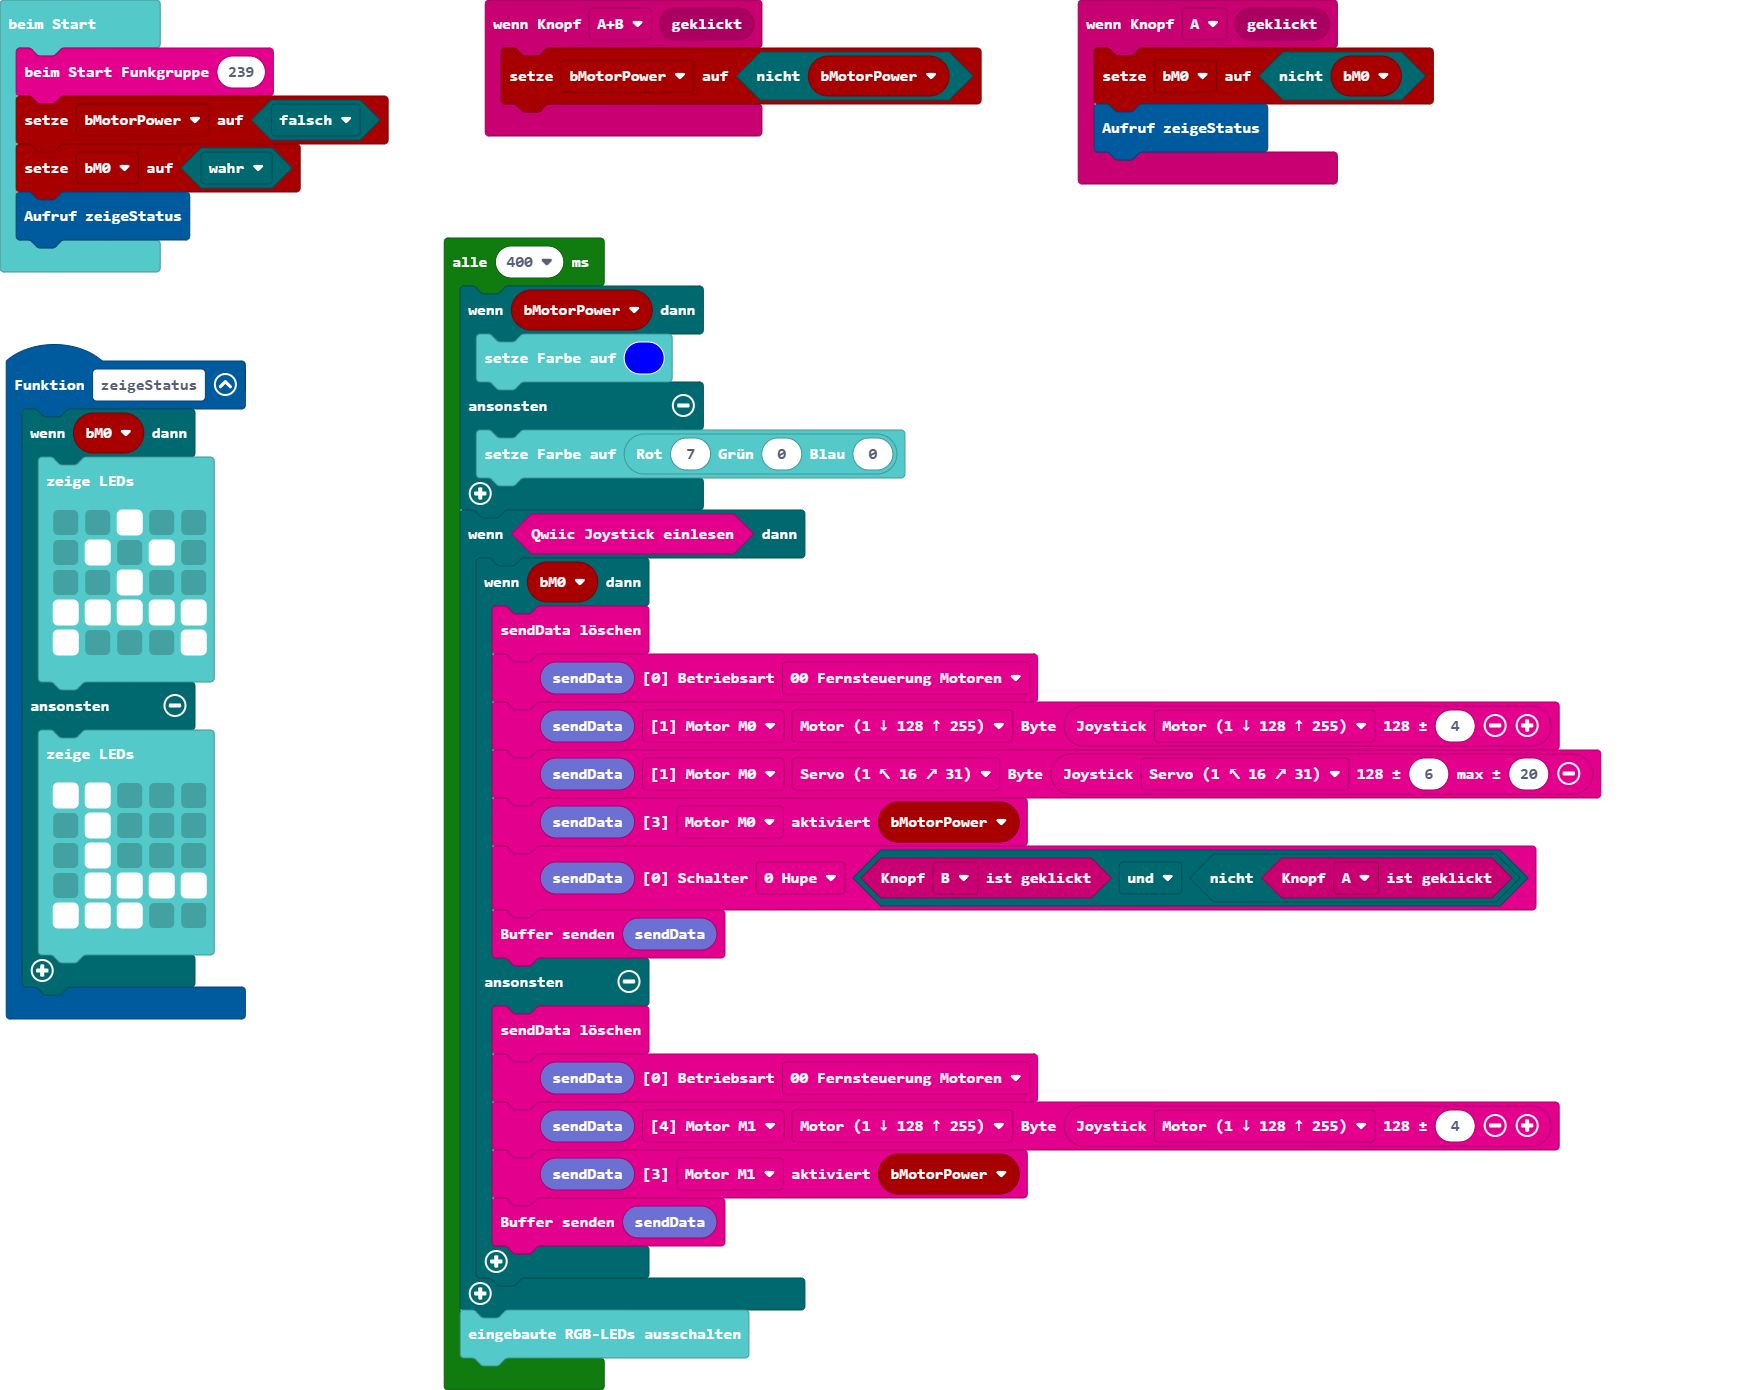
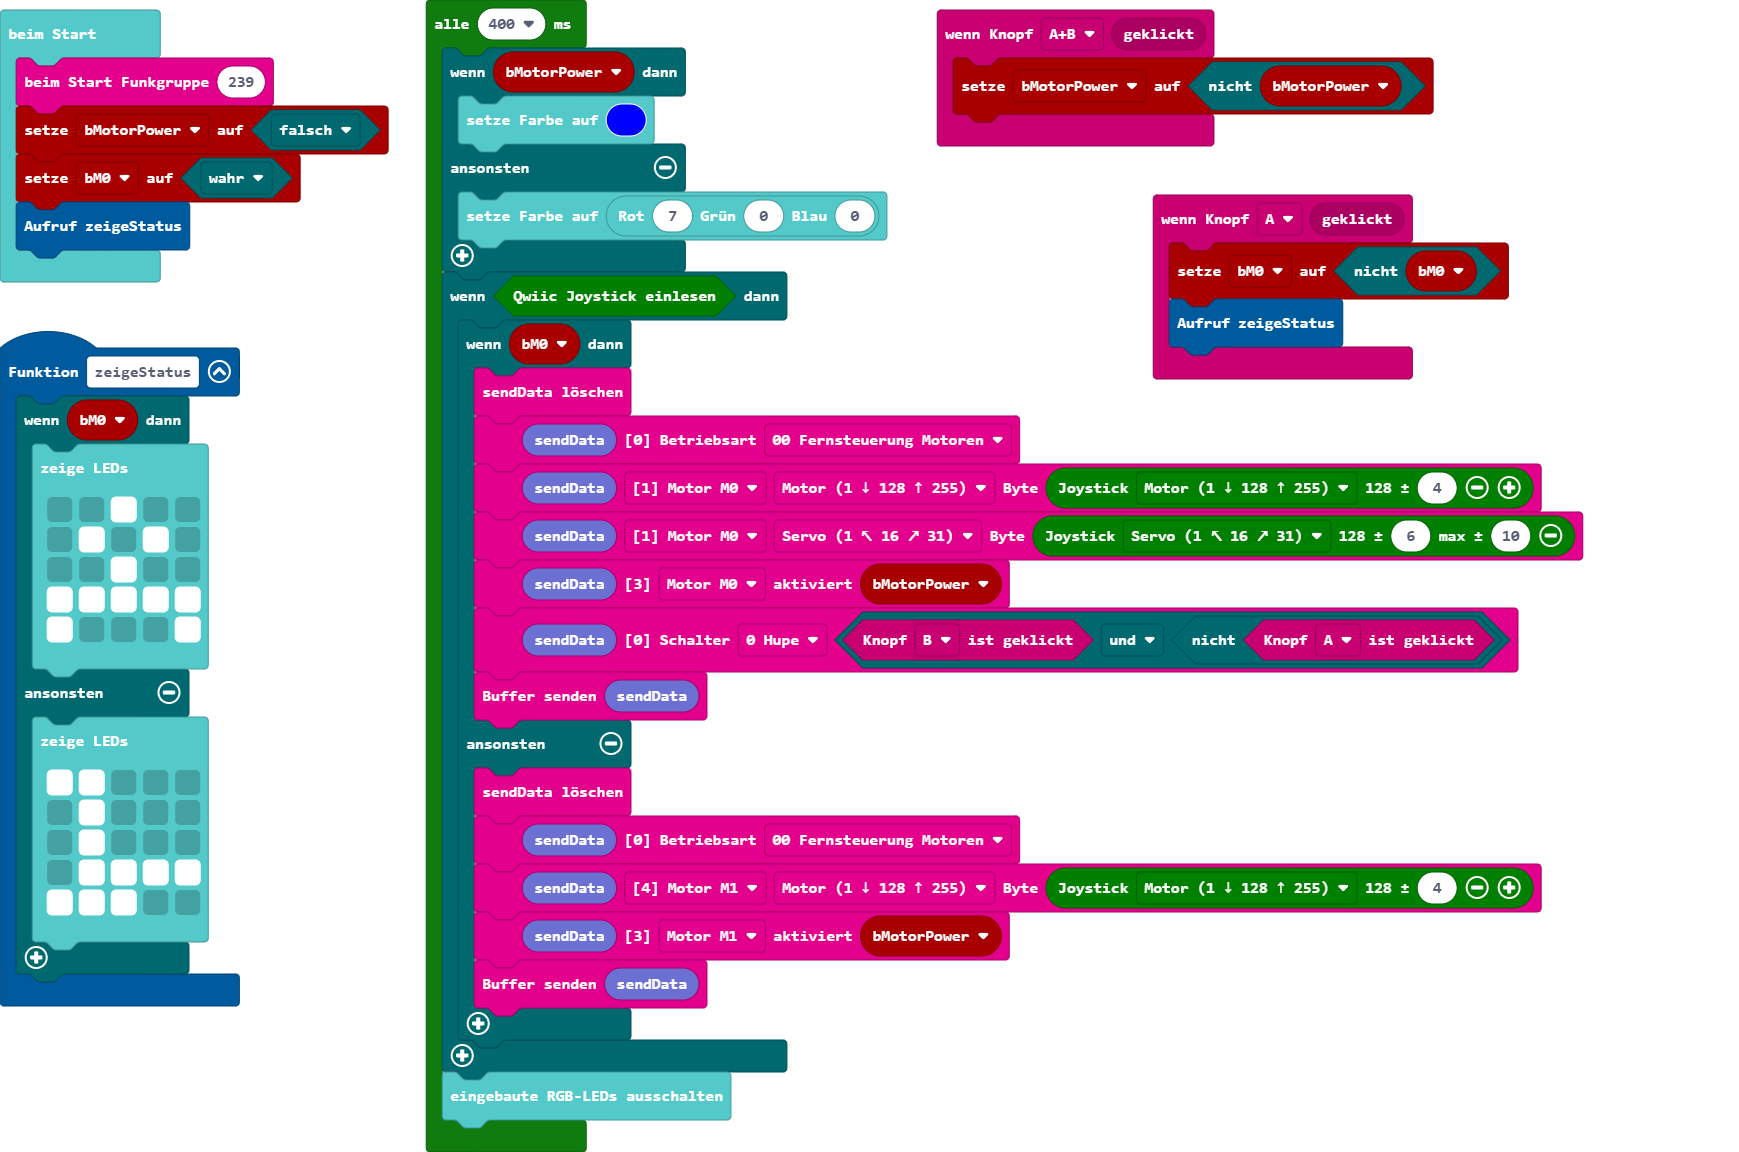
Aktualisiere pxt.json, main.blocks, main.ts

diff --git a/main.ts b/main.ts
@@ -41,7 +41,7 @@ loops.everyInterval(400, function () {
             radio.fill_sendBuffer19()
             radio.setBetriebsart(radio.radio_sendBuffer19(), radio.e0Betriebsart.p0)
             radio.setByte(radio.radio_sendBuffer19(), radio.eBufferPointer.m0, radio.eBufferOffset.b0_Motor, radio.joystickValue(radio.eJoystickValue.motor, 4))
-            radio.setByte(radio.radio_sendBuffer19(), radio.eBufferPointer.m0, radio.eBufferOffset.b1_Servo, radio.joystickValue(radio.eJoystickValue.servo16, 6, 20))
+            radio.setByte(radio.radio_sendBuffer19(), radio.eBufferPointer.m0, radio.eBufferOffset.b1_Servo, radio.joystickValue(radio.eJoystickValue.servo16, 6, 10))
             radio.setaktiviert(radio.radio_sendBuffer19(), radio.e3aktiviert.m0, bMotorPower)
             radio.setSchalter(radio.radio_sendBuffer19(), radio.e0Schalter.b0, input.buttonIsPressed(Button.B) && !(input.buttonIsPressed(Button.A)))
             radio.sendData(radio.radio_sendBuffer19())
